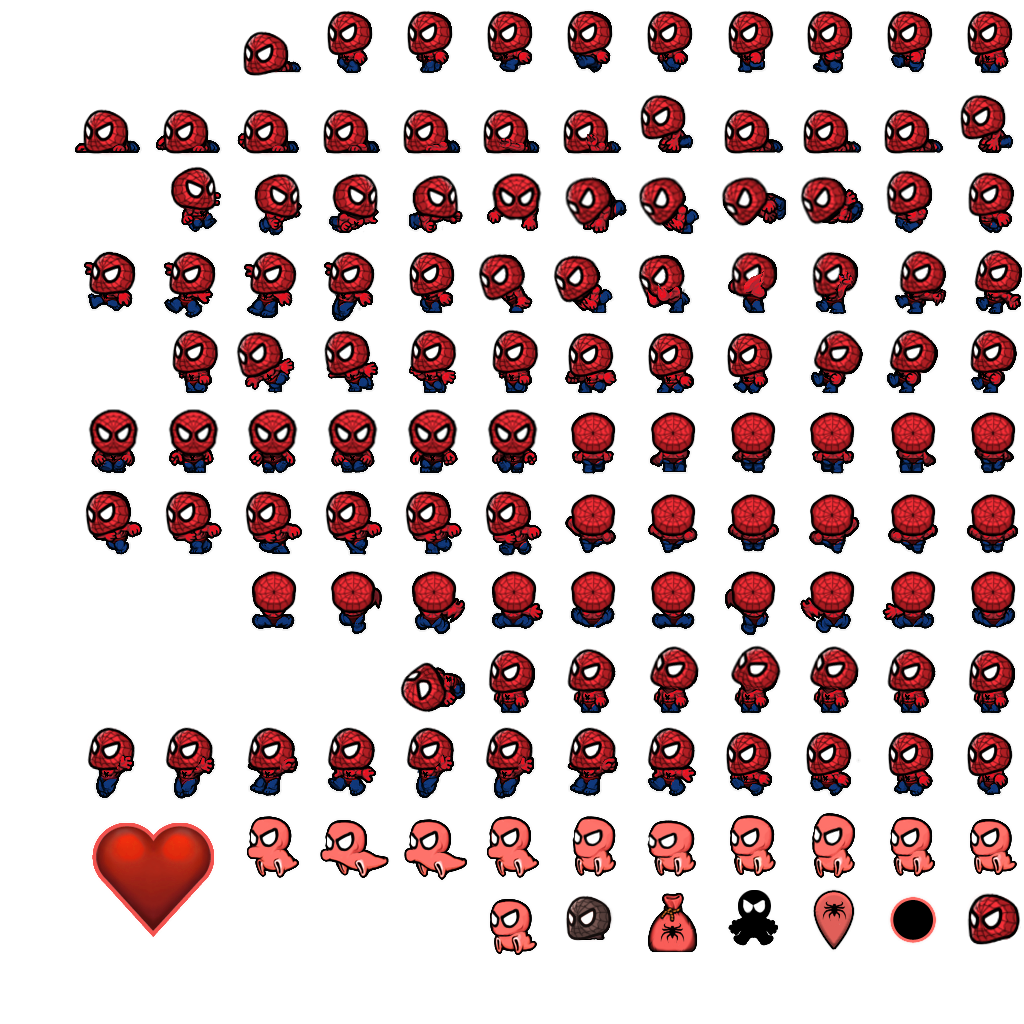
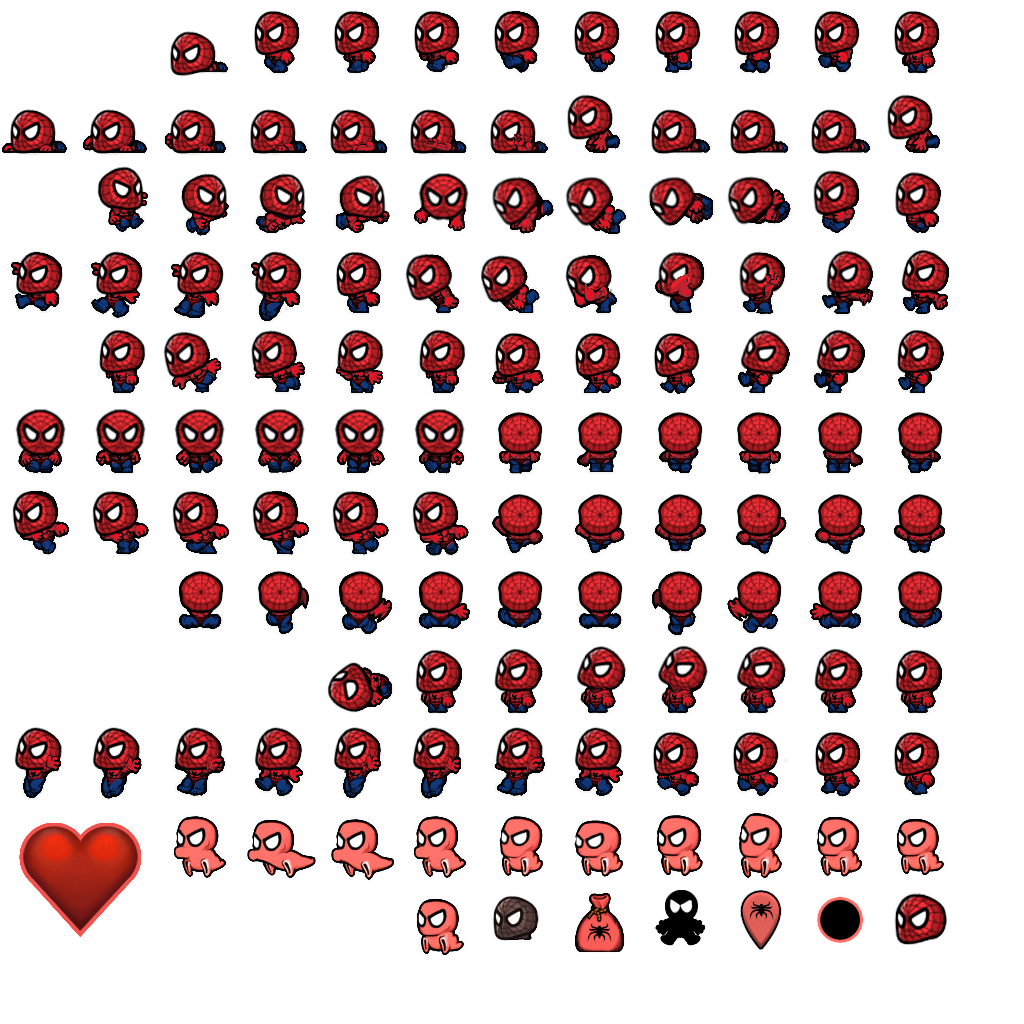
fix player png issue, reset jumping ability if player's bottom hits platforms, only single jump is working now

diff --git a/src/App.js b/src/App.js
@@ -21,7 +21,7 @@ export default function App (props) {
     physics: {
       default: 'arcade',
       arcade: {
-        gravity: { y: 300 }
+        gravity: { y: 500 }
       }
     },
     scene: {
@@ -58,17 +58,9 @@ export default function App (props) {
 
     // player
     this.player = this.physics.add.sprite(300, 300, 'spiderman').setScale(1, 1)
-    this.player.body.setSize(60, 65, 60, 65)
+    this.player.body.setSize(55, 65, 10, 10)
     this.player.body.collideWorldBounds = true
-    this.anims.create({
-      key: 'left',
-      frames: this.anims.generateFrameNumbers('spiderman_reverse', {
-        start: 11,
-        end: 4
-      }),
-      frameRate: 10,
-      repeat: -1
-    })
+    this.player.facing = 'right'
     this.anims.create({
       key: 'right',
       frames: this.anims.generateFrameNumbers('spiderman', {
@@ -79,7 +71,16 @@ export default function App (props) {
       repeat: -1
     })
     this.anims.create({
-      key: 'idle',
+      key: 'left',
+      frames: this.anims.generateFrameNumbers('spiderman_reverse', {
+        start: 10,
+        end: 3
+      }),
+      frameRate: 10,
+      repeat: -1
+    })
+    this.anims.create({
+      key: 'idle_right',
       frames: this.anims.generateFrameNumbers('spiderman', {
         start: 0,
         end: 0
@@ -88,10 +89,28 @@ export default function App (props) {
       repeat: -1
     })
     this.anims.create({
-      key: 'atk',
+      key: 'idle_left',
+      frames: this.anims.generateFrameNumbers('spiderman_reverse', {
+        start: 11,
+        end: 11
+      }),
+      frameRate: 10,
+      repeat: -1
+    })
+    this.anims.create({
+      key: 'atk_right',
       frames: this.anims.generateFrameNumbers('spiderman', {
         start: 53,
-        end: 55
+        end: 53
+      }),
+      frameRate: 10,
+      repeat: -1
+    })
+    this.anims.create({
+      key: 'atk_left',
+      frames: this.anims.generateFrameNumbers('spiderman_reverse', {
+        start: 54,
+        end: 54
       }),
       frameRate: 10,
       repeat: -1
@@ -101,17 +120,29 @@ export default function App (props) {
     this.platforms = this.physics.add.staticGroup()
 
     this.platforms
-      .create(400, 600, 'tiles', 0)
+      .create(1024 / 2, 600, 'tiles', 0)
+      .setScale(8, 1)
+      .refreshBody()
+    this.platforms
+      .create(160, 500, 'tiles', 0)
       .setScale(10, 1)
       .refreshBody()
     this.platforms
-      .create(0, 500, 'tiles', 0)
-      .setScale(8, 1)
+      .create(1024 - 160, 500, 'tiles', 0)
+      .setScale(10, 1)
       .refreshBody()
 
     this.platforms
-      .create(600, 400, 'tiles', 3)
-      .setScale(7, 1)
+      .create(1024 / 2, 400, 'tiles', 3)
+      .setScale(3, 1)
+      .refreshBody()
+    this.platforms
+      .create((32 * 6) / 2, 300, 'tiles', 3)
+      .setScale(6, 1)
+      .refreshBody()
+    this.platforms
+      .create(1024 - (32 * 6) / 2, 300, 'tiles', 3)
+      .setScale(6, 1)
       .refreshBody()
 
     this.platforms
@@ -124,27 +155,40 @@ export default function App (props) {
 
     this.physics.add.collider(this.player, this.platforms)
 
-    this.doublejump = 2
+    this.doublejump = false
   }
 
   function update () {
     if (this.cursors.right.isDown) {
       this.player.anims.play('right', true)
       this.player.body.setVelocityX(300)
+      this.player.facing = 'right'
     } else if (this.cursors.left.isDown) {
       this.player.anims.play('left', true)
       this.player.body.setVelocityX(-300)
+      this.player.facing = 'left'
     } else {
-      this.player.anims.play('idle', true)
+      if (this.player.facing === 'right')
+        this.player.anims.play('idle_right', true)
+      if (this.player.facing === 'left')
+        this.player.anims.play('idle_left', true)
       this.player.body.setVelocityX(0)
     }
 
-    if (this.cursors.up.isDown) {
-      this.player.body.setVelocityY(-300)
-      console.log(this.doublejump)
+    if (this.cursors.up.isDown && !this.doublejump) {
+      this.player.body.setVelocityY(-400)
+      this.doublejump = true
     }
+
+    if (this.player.body.touching.down) {
+      this.doublejump = false
+    }
+
     if (this.cursors.space.isDown) {
-      this.player.anims.play('atk', true)
+      if (this.player.facing === 'right')
+        this.player.anims.play('atk_right', true)
+      if (this.player.facing === 'left')
+        this.player.anims.play('atk_left', true)
     }
   }
 
